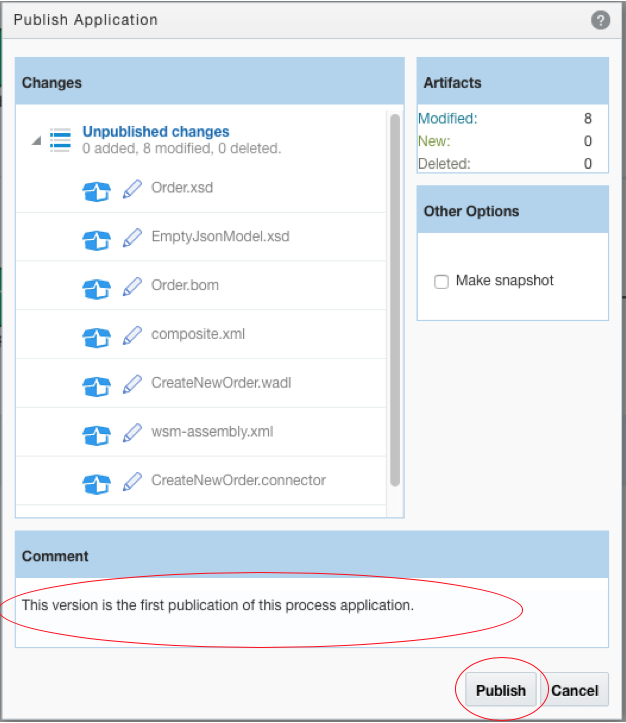
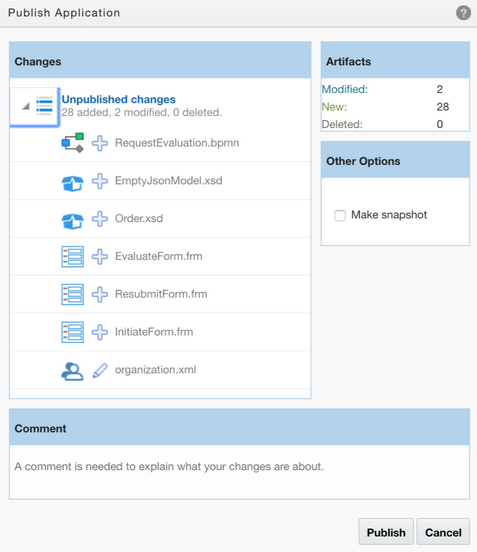
Updating App Int Lab Guide based on feedback from John King

Changed region(s): [[0.0, 0.0, 1.0, 1.0], [0.2055, 0.6467, 0.5283, 0.6775]]

diff --git a/ospa-library/appint/ApplicationIntegration-labguide.md b/ospa-library/appint/ApplicationIntegration-labguide.md
@@ -1,6 +1,6 @@
 # Application Integration Lab Guide
 
-## June 27, 2019 - 8:50 AM
+## June 30, 2019 - 4:00 PM
 
 # Table of Contents
 
@@ -1897,7 +1897,7 @@ our condition to see if the order request should be routed along the
     model. Based on our initial Mama Maggy scenario, what didn’t get
     done yet? If you answered: *“We haven’t created an order in the
     backend system (ATP database),”* you are right. We need to add a call
-    to the *Create New Order integration* that you built in Lab 1.  Here is the *Create Order* activity in your process model:
+    to the *Create New Order integration* that you built in Lab 1.  We need to add a *Create Order* activity that calls our *Create New Order* integration.  Here is how that *Create Order* activity *should* appear in the process model, so let's add it:
 
     ![](./media/image127.png)
 
@@ -1971,10 +1971,15 @@ our condition to see if the order request should be routed along the
         the data fields that your *Create Order* integration expects.
     
         - Map the fields for the Input to the Create Order integration
-        activity as shown below. Notice that some casting (data
-        conversion) needs to be done. You’ll use the *string()* function
-        to convert the *date* data type to *string*. The *int()* function is
-        used to convert the *decimal* data to *integer*. To implement these
+        activity as shown below. 
+        
+          - NOTES: 
+            - As you map, you will encounter some error messages that indicate type mismatches between the source field and the target field.  You will need to do some casting (data conversion). 
+              - You’ll use the *string()* function
+        to convert the *date* data type to *string*. 
+              - The *int()* function is
+        used to convert the *decimal* data to *integer*. 
+             - To implement these
         functions, do the drag and drop mapping as you have done before
         and then click in the cells (highlighted below) to add the *int*
         and *string* function calls and to surround the data field with
@@ -1995,9 +2000,13 @@ our condition to see if the order request should be routed along the
 
       - With the *Input* mapping completed, now click the *Output* option in
     the upper-left to map the outputs generated by the *Create Order*
-    integration activity. Map the single output field as shown below.
-    Again notice that you’ll need to edit the mapping to implement the
-    *string()* function to cast the *bodyOutput* to a string. We don’t
+    integration activity. 
+    
+    - Map the single output field as shown below.
+      - NOTES: 
+        - Again notice that you’ll need to edit the mapping to implement the
+    *string()* function to cast the *bodyOutput* to a string. The error message will go away after you press Return to record your edit.
+        - We don’t
     use *bodyOutput* in our model, but the tooling requires us to map it
     anyway. We are just arbitrarily choosing the *TaskOutcomeDataObject*
     as the mapping target:
@@ -2006,8 +2015,7 @@ our condition to see if the order request should be routed along the
 
         Figure 75: Mapping Outputs from an Integration Activity
 
-        Again, here is another easier to read image showing just the mapping
-cells:
+        Again, here is another easier to read image showing just the completed mapping:
 
         ![](./media/image84.png)
 
@@ -2024,7 +2032,7 @@ cells:
 
 We want to publish our application, but, before we do, let's validate it for errors:
 
-41. Find the *hamburger menu* in the upper-left corner of the window and click on it.
+41. Find the *hamburger menu* in the upper-right corner of the window and click on it.
 
 42. Select the *Validate Application* option in the popup menu.
 
@@ -2046,7 +2054,7 @@ Your application is finished so you can now publish it.  That gets us one step c
     explanation in the Comments fields: *This version is the first
     publication of this process application.*
     
-44. Click the *Publish* button in the lower-right corner:
+44. Click the *Publish* button in the lower-right corner.  NOTE: Your *Publish Application* may show a different list of unpublished changes:
 
       ![](./media/image92.png)
 
@@ -2068,8 +2076,12 @@ After you publish, you need activate your process application so it is available
     Figure 85: Activating a Process Application
 
 49. The *Activate Application to My Server* dialog appears indicating
-    that you are about to publish the *Last Published* Version. 
-    
+    that you are about to publish the *Last Published* Version:
+
+    ![](./media/image133.png)
+
+    Figure 86: Activating a Process Application
+
 48. Click the *Validate* button in the lower-right corner.
 
 49. In the *Validation Result* step, you see a green “*Application
@@ -2098,7 +2110,11 @@ After you publish, you need activate your process application so it is available
   51. In a moment, you will see the results appear in the Activation Result
     step. A green “*Application successfully activated\!*” message appears.
 
-  52. Click the *Finish* button in the lower-right corner to dismiss the dialog.
+  52. Click the *Finish* button in the lower-right corner to continue:
+  
+      ![](./media/image134.png)
+
+        Figure 87: Setting Activation Options
 
   53. Click the *Save* button in the upper-right corner when it redisplays.
 
